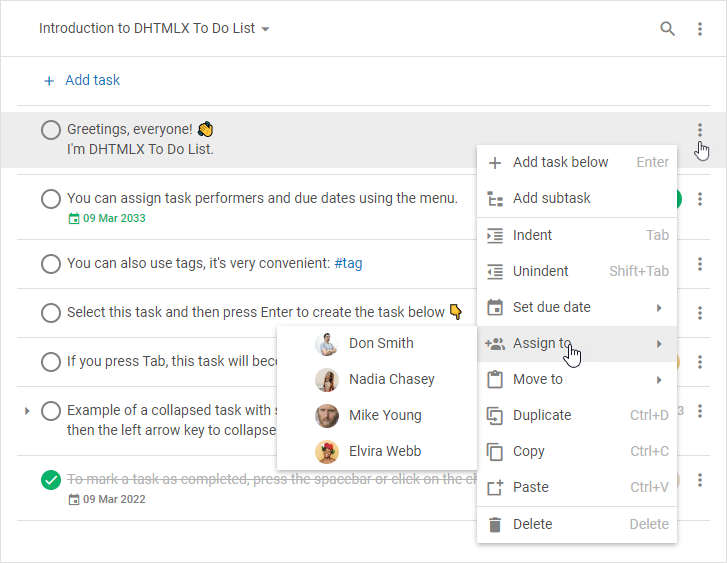
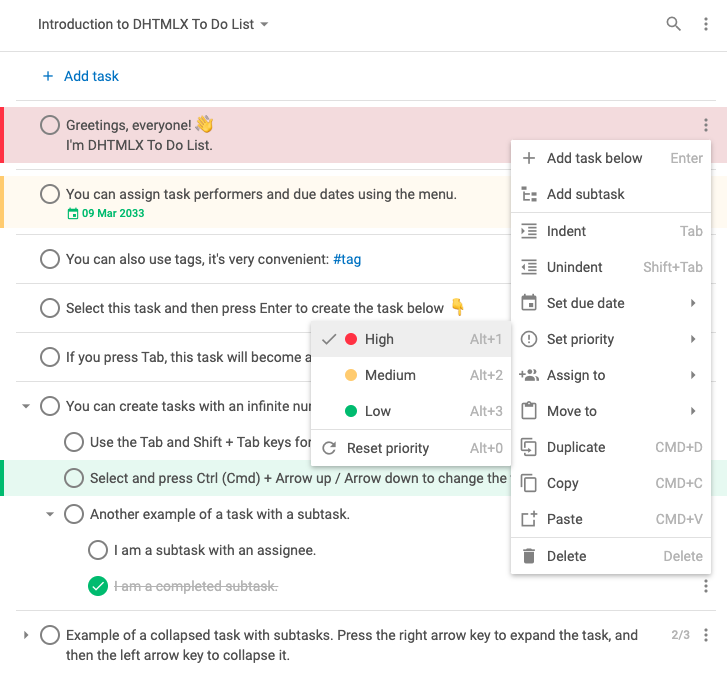
[update] overview description and screenshots

diff --git a/docs/guides/working_with_server.md b/docs/guides/working_with_server.md
@@ -86,7 +86,7 @@ The snippet below shows you how to connect **RestDataProvider** to the backend a
 
 ## Multiuser backend
 
-Task management tools, such as our To Do list, are highly sought after by businesses of all sizes. Considering this, it is crucial to provide a seamless user experience for all users, regardless of the number. Our new feature allows multiple users to efficiently manage the same tasks on the list in real-time, without the need for page reloads. As a result, users can collaborate and stay up-to-date with one another's actions, enhancing productivity and overall user satisfaction.
+Task management tools, such as our To Do List, are highly sought after by businesses of all sizes. Considering this, it is crucial to provide a seamless user experience for all users, regardless of the number. Our new feature allows multiple users to efficiently manage the same tasks on the list in real-time, without the need for page reloads. As a result, users can collaborate and stay up-to-date with one another's actions, enhancing productivity and overall user satisfaction.
 
 To implement a multiuser backend, you need to get authorization on the server before the To Do List initialization. For this, you can create the `login()` function:
 

diff --git a/docs/overview.md b/docs/overview.md
@@ -28,6 +28,7 @@ The interface of the To Do List component consists of two parts: [Toolbar](#tool
 - a **menu** with a set of controls which allow you to:
     - sort tasks in the ascending/descending order by the following criteria:
         - by text
+        - by priority
         - by due date
         - by completion date
         - by creation date
@@ -109,6 +110,13 @@ The **context menu** of a task contains a set of items and sub-items and looks l
 ### Deleting a task
 
 - To delete a task, select it and press `Backspace`/`Delete`
+
+### Prioritizing a task
+
+- To set a **High** priority, select the task and press `Alt + 1`
+- To set a **Medium** priority, select the task and press `Alt + 2`
+- To set a **Low** priority, select the task and press `Alt + 3`
+- To set a **Reset** priority, select the task and press `Alt + 0`
 
 ## Managing multiple tasks
 
